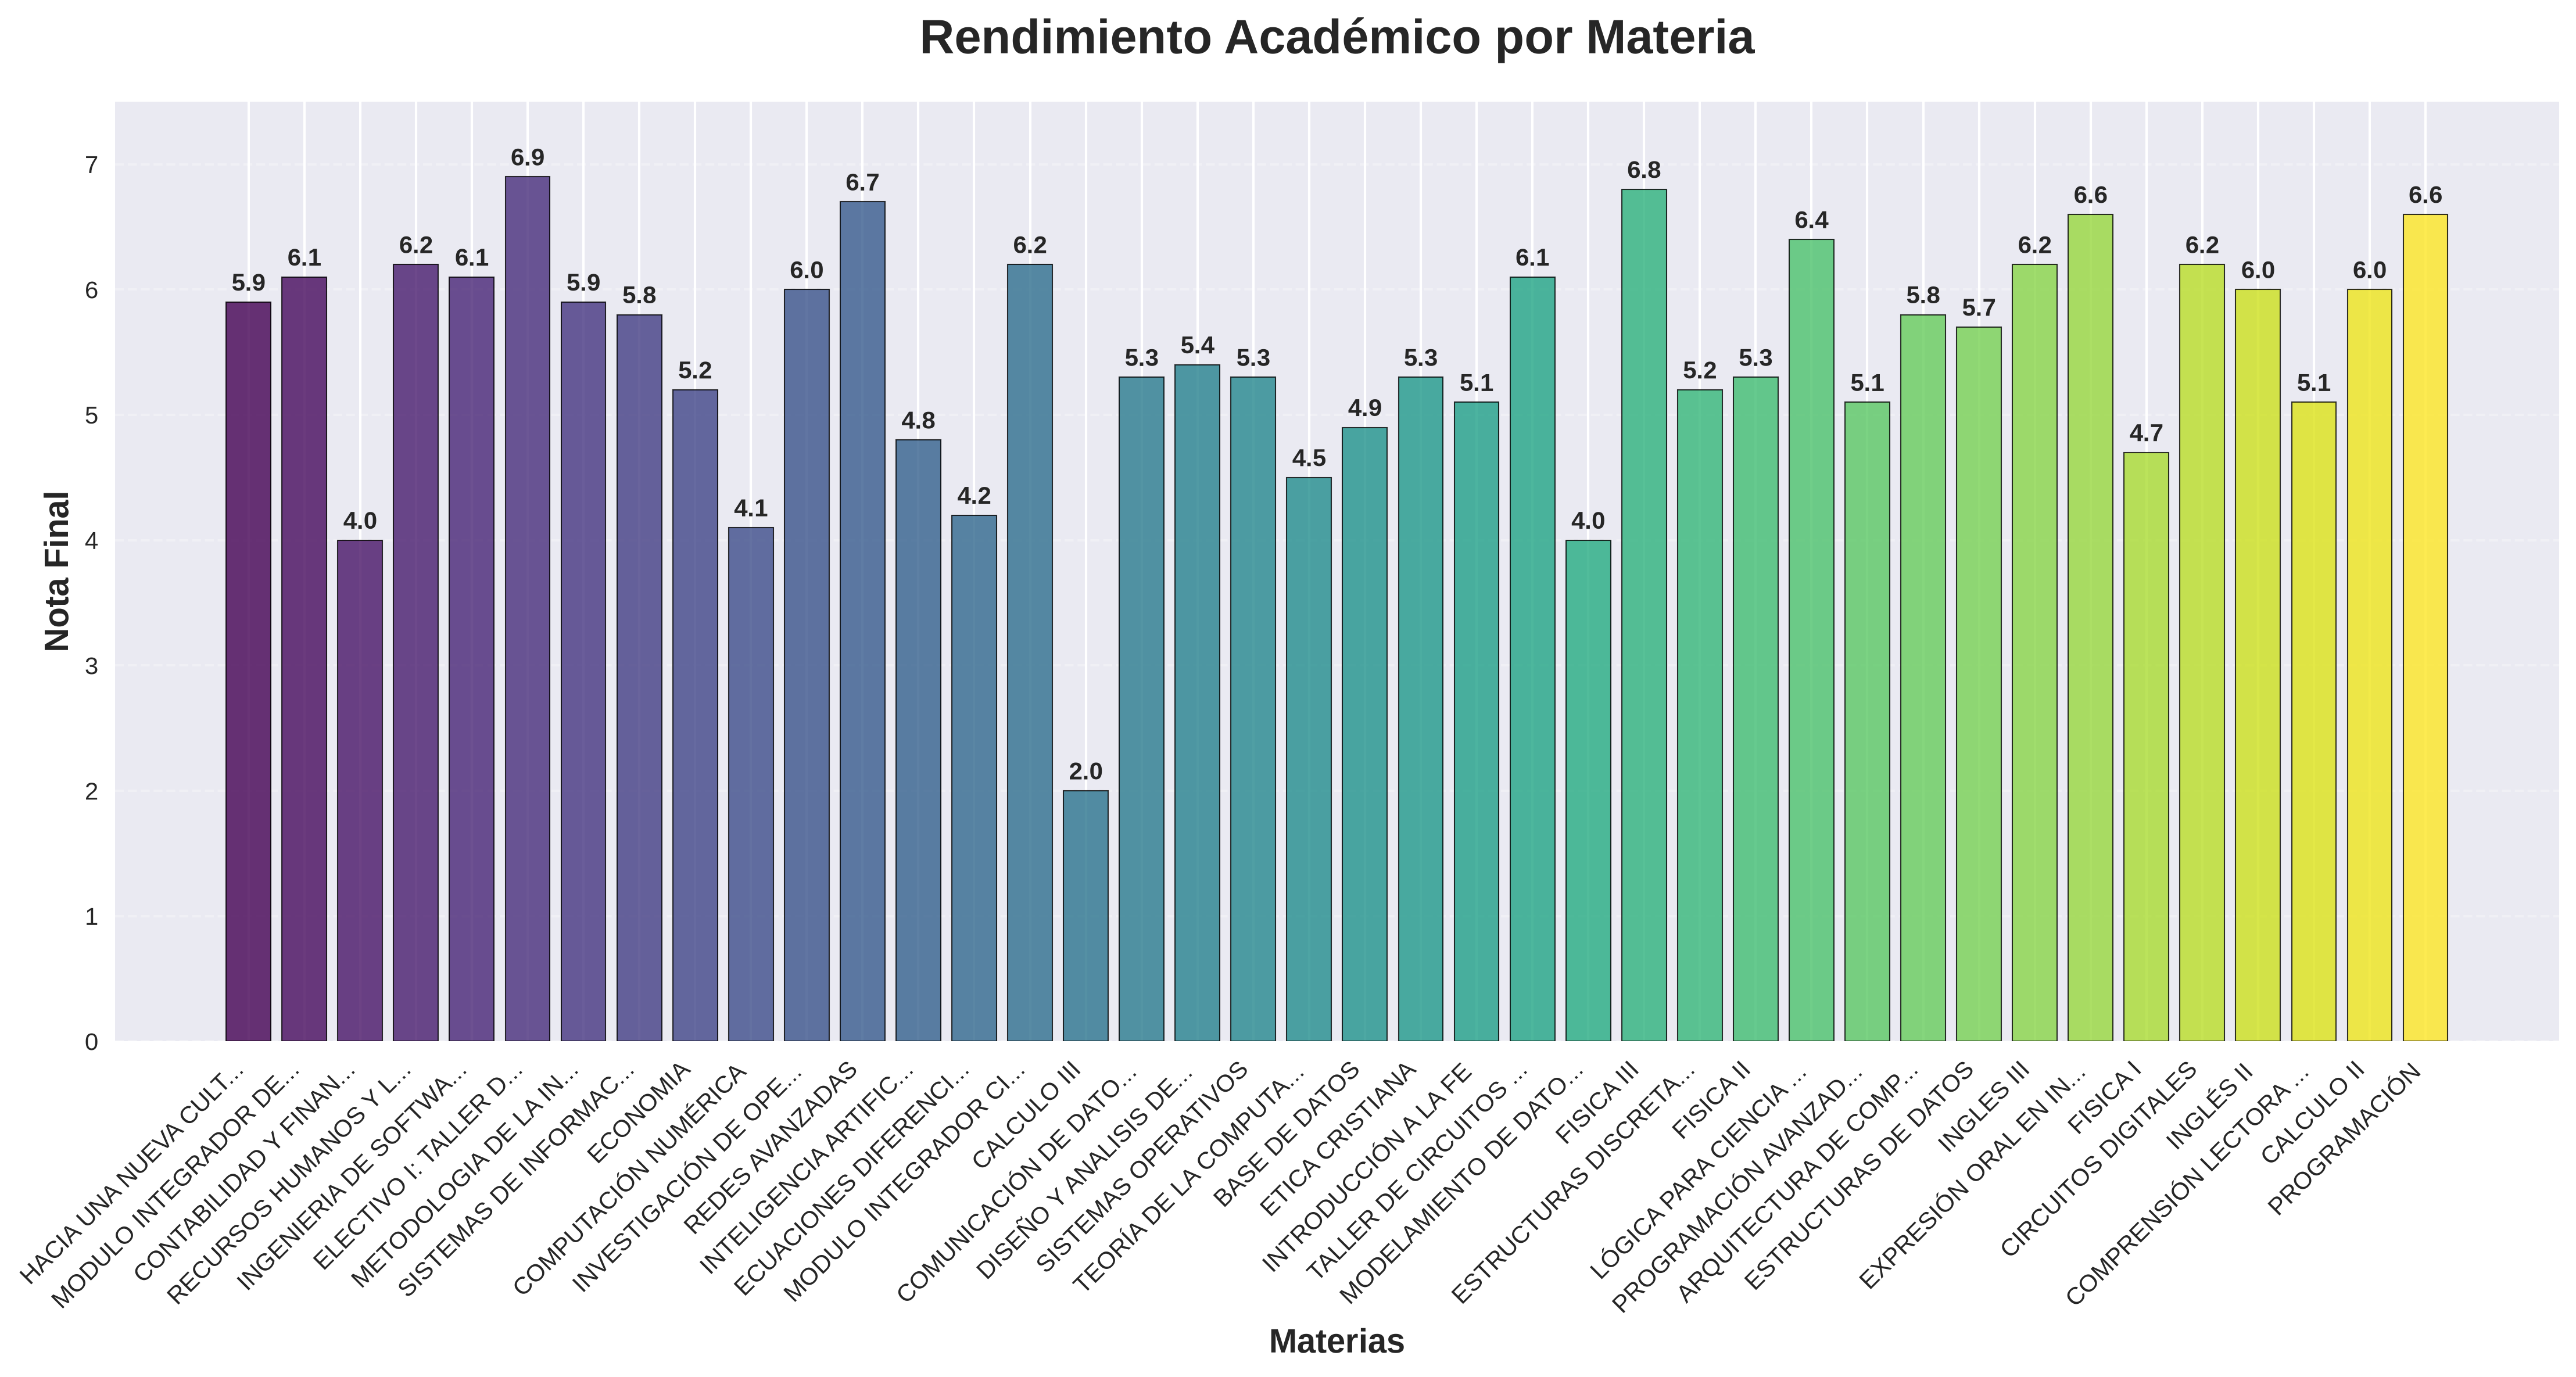
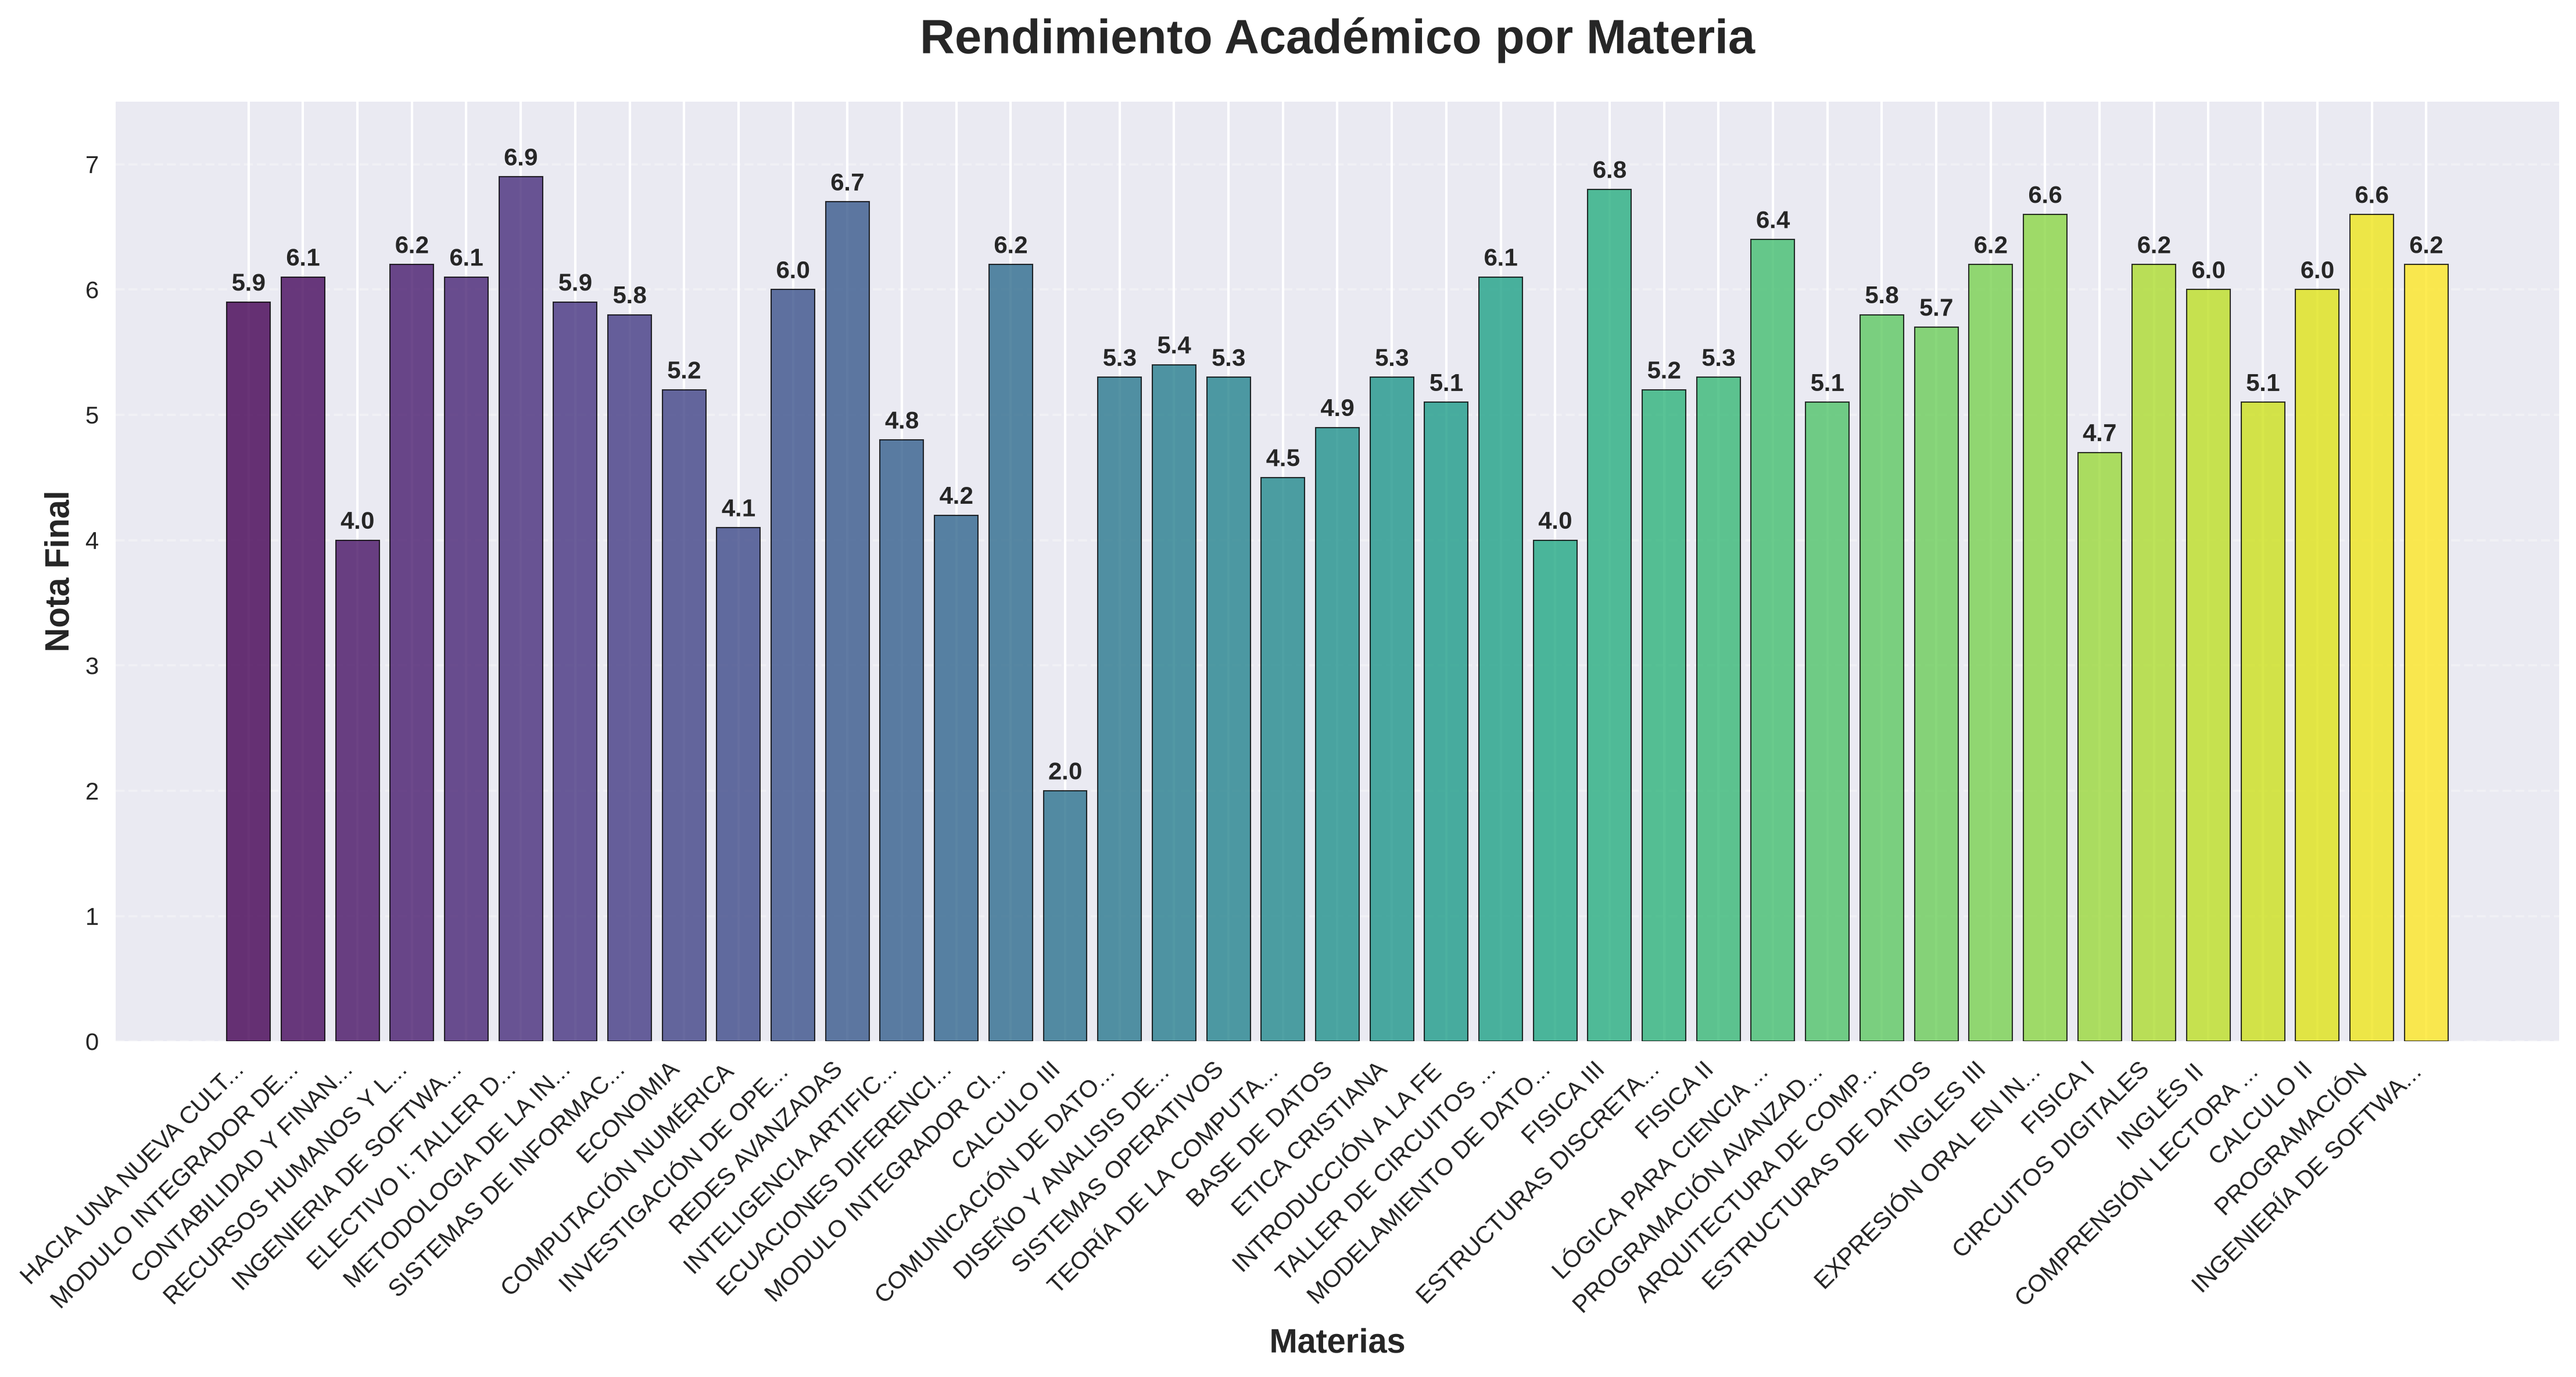
auto: actualizar notas y gráficos

Changed region(s): [[0.0311, 0.0937, 0.965, 0.9367]]

diff --git a/dashboard/ramos_con_detalles.js b/dashboard/ramos_con_detalles.js
@@ -1,2 +1,2 @@
 /* Archivo generado automáticamente por el scraper. No editar a mano. */
-window.ramosData = {"ramos_con_detalles": [{"nombre": "HACIA UNA NUEVA CULTURA EMPRESARIAL", "nota_final": 5.9, "id_curso": "01005356", "componentes": [{"nombre": "Parcial", "porcentaje": "30%", "nota": 6.0}, {"nombre": "Parcial", "porcentaje": "30%", "nota": 7.0}, {"nombre": "Parcial", "porcentaje": "40%", "nota": 5.0}], "semestre": "Semestre 2 (Pre) 2025"}, {"nombre": "MODULO INTEGRADOR DE LICENCIATURA (PRACT", "nota_final": 6.1, "id_curso": "01003110", "componentes": [{"nombre": "Parcial", "porcentaje": "30%", "nota": 5.8}, {"nombre": "Parcial", "porcentaje": "30%", "nota": 6.4}, {"nombre": "Parcial", "porcentaje": "40%", "nota": 6.2}], "semestre": "Semestre 2 (Pre) 2025"}, {"nombre": "CONTABILIDAD Y FINANZAS", "nota_final": 4.0, "id_curso": "01003111", "componentes": [{"nombre": "Parcial", "porcentaje": "20%", "nota": 4.0}, {"nombre": "Parcial", "porcentaje": "20%", "nota": 5.9}, {"nombre": "Parcial", "porcentaje": "30%", "nota": 2.5}, {"nombre": "Parcial", "porcentaje": "30%", "nota": 4.1}], "semestre": "Semestre 2 (Pre) 2025"}, {"nombre": "RECURSOS HUMANOS Y LEGISLACIÓN", "nota_final": 6.2, "id_curso": "01003120", "componentes": [{"nombre": "Parcial", "porcentaje": "20%", "nota": 5.4}, {"nombre": "Parcial", "porcentaje": "25%", "nota": 6.5}, {"nombre": "Parcial", "porcentaje": "25%", "nota": 6.0}, {"nombre": "Parcial", "porcentaje": "30%", "nota": 6.6}], "semestre": "Semestre 2 (Pre) 2025"}, {"nombre": "INGENIERIA DE SOFTWARE I", "nota_final": 6.1, "id_curso": "01003113", "componentes": [{"nombre": "Parcial", "porcentaje": "10%", "nota": 6.3}, {"nombre": "Parcial", "porcentaje": "10%", "nota": 6.2}, {"nombre": "Parcial", "porcentaje": "20%", "nota": 7.0}, {"nombre": "Parcial", "porcentaje": "30%", "nota": 5.3}, {"nombre": "Parcial", "porcentaje": "30%", "nota": 6.2}], "semestre": "Semestre 2 (Pre) 2025"}, {"nombre": "ELECTIVO I: TALLER DE UI Y UX", "nota_final": 6.9, "id_curso": "01011131", "componentes": [{"nombre": "Parcial", "porcentaje": "20%", "nota": 7.0}, {"nombre": "Parcial", "porcentaje": "40%", "nota": 6.9}, {"nombre": "Parcial", "porcentaje": "40%", "nota": 6.8}], "semestre": "Semestre 2 (Pre) 2025"}, {"nombre": "METODOLOGIA DE LA INVESTIGACIÓN", "nota_final": 5.9, "id_curso": "01003105", "componentes": [{"nombre": "Parcial", "porcentaje": "30%", "nota": 5.5}, {"nombre": "Parcial", "porcentaje": "30%", "nota": 6.7}, {"nombre": "Parcial", "porcentaje": "40%", "nota": 5.5}], "semestre": "Semestre 1 (Pre) 2025"}, {"nombre": "SISTEMAS DE INFORMACIÓN", "nota_final": 5.8, "id_curso": "01003108", "componentes": [{"nombre": "Parcial", "porcentaje": "30%", "nota": 6.3}, {"nombre": "Parcial", "porcentaje": "30%", "nota": 7.0}, {"nombre": "Parcial", "porcentaje": "40%", "nota": 4.4}], "semestre": "Semestre 1 (Pre) 2025"}, {"nombre": "ECONOMIA", "nota_final": 5.2, "id_curso": "01003106", "componentes": [{"nombre": "Parcial", "porcentaje": "25%", "nota": 6.6}, {"nombre": "Parcial", "porcentaje": "25%", "nota": 6.0}, {"nombre": "Parcial", "porcentaje": "25%", "nota": 7.0}, {"nombre": "Parcial", "porcentaje": "25%", "nota": 1.0}], "semestre": "Semestre 1 (Pre) 2025"}, {"nombre": "CALCULO I", "nota_final": null, "id_curso": "N/A", "componentes": [], "semestre": "Semestre 1 (Pre) 2021", "error": "Message: \nStacktrace:\n#0 0x55fedd4083da <unknown>\n#1 0x55fedcdea139 <unknown>\n#2 0x55fedce3e884 <unknown>\n#3 0x55fedce3ead1 <unknown>\n#4 0x55fedce89974 <unknown>\n#5 0x55fedce86b5c <unknown>\n#6 0x55fedce31e4f <unknown>\n#7 0x55fedce32c31 <unknown>\n#8 0x55fedd3ce9f7 <unknown>\n#9 0x55fedd3cd203 <unknown>\n#10 0x55fedd3b7f16 <unknown>\n#11 0x55fedd3cdd9a <unknown>\n#12 0x55fedd39feb0 <unknown>\n#13 0x55fedd3f4d58 <unknown>\n#14 0x55fedd3f4ef5 <unknown>\n#15 0x55fedd406f5e <unknown>\n#16 0x7fd13129caa4 <unknown>\n#17 0x7fd131329c6c <unknown>\n"}, {"nombre": "COMPUTACIÓN NUMÉRICA", "nota_final": 4.1, "id_curso": "01003100", "componentes": [{"nombre": "Parcial", "porcentaje": "15%", "nota": 6.5}, {"nombre": "Parcial", "porcentaje": "15%", "nota": 7.0}, {"nombre": "Parcial", "porcentaje": "20%", "nota": 6.8}, {"nombre": "Parcial", "porcentaje": "20%", "nota": 2.0}, {"nombre": "Parcial", "porcentaje": "30%", "nota": 1.0}], "semestre": "Semestre 2 (Pre) 2024"}, {"nombre": "INVESTIGACIÓN DE OPERACIONES", "nota_final": 6.0, "id_curso": "01003101", "componentes": [{"nombre": "Parcial", "porcentaje": "15%", "nota": 7.0}, {"nombre": "Parcial", "porcentaje": "15%", "nota": 5.3}, {"nombre": "Parcial", "porcentaje": "20%", "nota": 5.8}, {"nombre": "Parcial", "porcentaje": "20%", "nota": 6.9}, {"nombre": "Parcial", "porcentaje": "30%", "nota": 5.5}], "semestre": "Semestre 2 (Pre) 2024"}, {"nombre": "REDES AVANZADAS", "nota_final": 6.7, "id_curso": "01003114", "componentes": [{"nombre": "Parcial", "porcentaje": "45%", "nota": 6.7}, {"nombre": "Parcial", "porcentaje": "55%", "nota": 6.7}], "semestre": "Semestre 2 (Pre) 2024"}, {"nombre": "INTELIGENCIA ARTIFICIAL", "nota_final": 4.8, "id_curso": "01003112", "componentes": [{"nombre": "Parcial", "porcentaje": "10%", "nota": 5.9}, {"nombre": "Parcial", "porcentaje": "10%", "nota": 7.0}, {"nombre": "Parcial", "porcentaje": "20%", "nota": 5.3}, {"nombre": "Parcial", "porcentaje": "30%", "nota": 4.0}, {"nombre": "Parcial", "porcentaje": "30%", "nota": 4.0}], "semestre": "Semestre 2 (Pre) 2024"}, {"nombre": "ECUACIONES DIFERENCIALES", "nota_final": 4.2, "id_curso": "01003090", "componentes": [{"nombre": "Parcial", "porcentaje": "15%", "nota": 4.0}, {"nombre": "Parcial", "porcentaje": "15%", "nota": 5.0}, {"nombre": "Parcial", "porcentaje": "20%", "nota": 3.7}, {"nombre": "Parcial", "porcentaje": "20%", "nota": 4.3}, {"nombre": "Parcial", "porcentaje": "30%", "nota": 4.2}], "semestre": "Semestre 2 (Pre) 2024"}, {"nombre": "MODULO INTEGRADOR CIENCIAS BÁSICAS", "nota_final": 6.2, "id_curso": "01003094", "componentes": [{"nombre": "Parcial", "porcentaje": "40%", "nota": 6.1}, {"nombre": "Parcial", "porcentaje": "60%", "nota": 6.2}], "semestre": "Semestre 2 (Pre) 2024"}, {"nombre": "CALCULO III", "nota_final": 2.0, "id_curso": "01003085", "componentes": [{"nombre": "Parcial", "porcentaje": "20%", "nota": 2.2}, {"nombre": "Parcial", "porcentaje": "25%", "nota": 2.4}, {"nombre": "Parcial", "porcentaje": "25%", "nota": 2.2}, {"nombre": "Parcial", "porcentaje": "30%", "nota": 1.3}], "semestre": "Semestre 1 (Pre) 2023"}, {"nombre": "COMUNICACIÓN DE DATOS Y REDES", "nota_final": 5.3, "id_curso": "01003109", "componentes": [{"nombre": "Parcial", "porcentaje": "15%", "nota": 5.3}, {"nombre": "Parcial", "porcentaje": "15%", "nota": 5.3}, {"nombre": "Parcial", "porcentaje": "20%", "nota": 5.3}, {"nombre": "Parcial", "porcentaje": "20%", "nota": 5.3}, {"nombre": "Parcial", "porcentaje": "30%", "nota": 5.3}], "semestre": "Semestre 1 (Pre) 2024"}, {"nombre": "DISEÑO Y ANALISIS DE ALGORITMOS", "nota_final": 5.4, "id_curso": "01003107", "componentes": [{"nombre": "Parcial", "porcentaje": "30%", "nota": 6.0}, {"nombre": "Parcial", "porcentaje": "70%", "nota": 5.2}], "semestre": "Semestre 1 (Pre) 2024"}, {"nombre": "SISTEMAS OPERATIVOS", "nota_final": 5.3, "id_curso": "01003104", "componentes": [{"nombre": "Parcial", "porcentaje": "25%", "nota": 5.5}, {"nombre": "Parcial", "porcentaje": "35%", "nota": 6.1}, {"nombre": "Parcial", "porcentaje": "40%", "nota": 4.4}], "semestre": "Semestre 2 (Pre) 2023"}, {"nombre": "TEORÍA DE LA COMPUTACION", "nota_final": 4.5, "id_curso": "01003102", "componentes": [{"nombre": "Parcial", "porcentaje": "25%", "nota": 5.9}, {"nombre": "Parcial", "porcentaje": "25%", "nota": 6.7}, {"nombre": "Parcial", "porcentaje": "25%", "nota": 4.2}, {"nombre": "Parcial", "porcentaje": "25%", "nota": 1.0}], "semestre": "Semestre 2 (Pre) 2023"}, {"nombre": "BASE DE DATOS", "nota_final": 4.9, "id_curso": "01003103", "componentes": [{"nombre": "Parcial", "porcentaje": "30%", "nota": 3.6}, {"nombre": "Parcial", "porcentaje": "30%", "nota": 5.7}, {"nombre": "Parcial", "porcentaje": "40%", "nota": 5.3}], "semestre": "Semestre 2 (Pre) 2023"}, {"nombre": "ETICA CRISTIANA", "nota_final": 5.3, "id_curso": "01005880", "componentes": [{"nombre": "Parcial", "porcentaje": "30%", "nota": 5.0}, {"nombre": "Parcial", "porcentaje": "30%", "nota": 6.5}, {"nombre": "Parcial", "porcentaje": "40%", "nota": 4.5}], "semestre": "Semestre 2 (Pre) 2023"}, {"nombre": "INTRODUCCIÓN A LA FE", "nota_final": 5.1, "id_curso": "01005831", "componentes": [{"nombre": "Parcial", "porcentaje": "20%", "nota": 6.8}, {"nombre": "Parcial", "porcentaje": "25%", "nota": 6.6}, {"nombre": "Parcial", "porcentaje": "25%", "nota": 1.0}, {"nombre": "Parcial", "porcentaje": "30%", "nota": 6.0}], "semestre": "Semestre 1 (Pre) 2023"}, {"nombre": "TALLER DE CIRCUITOS DIGITALES", "nota_final": 6.1, "id_curso": "01003099", "componentes": [{"nombre": "Parcial", "porcentaje": "20%", "nota": 6.0}, {"nombre": "Parcial", "porcentaje": "20%", "nota": 6.6}, {"nombre": "Parcial", "porcentaje": "20%", "nota": 6.0}, {"nombre": "Parcial", "porcentaje": "40%", "nota": 6.0}], "semestre": "Semestre 1 (Pre) 2023"}, {"nombre": "MODELAMIENTO DE DATOS", "nota_final": 4.0, "id_curso": "01003098", "componentes": [{"nombre": "Parcial", "porcentaje": "20%", "nota": 3.8}, {"nombre": "Parcial", "porcentaje": "40%", "nota": 5.5}, {"nombre": "Parcial", "porcentaje": "40%", "nota": 2.7}], "semestre": "Semestre 1 (Pre) 2023"}, {"nombre": "FISICA III", "nota_final": 6.8, "id_curso": "01003095", "componentes": [{"nombre": "Parcial", "porcentaje": "20%", "nota": 6.5}, {"nombre": "Parcial", "porcentaje": "20%", "nota": 7.0}, {"nombre": "Parcial", "porcentaje": "30%", "nota": 6.8}, {"nombre": "Parcial", "porcentaje": "30%", "nota": 6.8}], "semestre": "Semestre 1 (Pre) 2023"}, {"nombre": "ESTRUCTURAS DISCRETAS", "nota_final": 5.2, "id_curso": "01003097", "componentes": [{"nombre": "Parcial", "porcentaje": "15%", "nota": 4.8}, {"nombre": "Parcial", "porcentaje": "15%", "nota": 4.8}, {"nombre": "Parcial", "porcentaje": "20%", "nota": 4.8}, {"nombre": "Parcial", "porcentaje": "20%", "nota": 5.8}, {"nombre": "Parcial", "porcentaje": "30%", "nota": 5.4}], "semestre": "Semestre 1 (Pre) 2023"}, {"nombre": "FISICA II", "nota_final": 5.3, "id_curso": "01003089", "componentes": [{"nombre": "Parcial", "porcentaje": "30%", "nota": 5.3}, {"nombre": "Parcial", "porcentaje": "35%", "nota": 4.1}, {"nombre": "Parcial", "porcentaje": "35%", "nota": 6.4}], "semestre": "Semestre 2 (Pre) 2022"}, {"nombre": "LÓGICA PARA CIENCIA DE LA COMPUTACIÓN", "nota_final": 6.4, "id_curso": "01003092", "componentes": [{"nombre": "Parcial", "porcentaje": "30%", "nota": 5.6}, {"nombre": "Parcial", "porcentaje": "35%", "nota": 7.0}, {"nombre": "Parcial", "porcentaje": "35%", "nota": 6.6}], "semestre": "Semestre 2 (Pre) 2022"}, {"nombre": "PROGRAMACIÓN AVANZADA", "nota_final": 5.1, "id_curso": "01003091", "componentes": [{"nombre": "Parcial", "porcentaje": "20%", "nota": 4.0}, {"nombre": "Parcial", "porcentaje": "20%", "nota": 7.0}, {"nombre": "Parcial", "porcentaje": "30%", "nota": 4.6}, {"nombre": "Parcial", "porcentaje": "30%", "nota": 5.1}], "semestre": "Semestre 2 (Pre) 2022"}, {"nombre": "ARQUITECTURA DE COMPUTADORES", "nota_final": 5.8, "id_curso": "01003093", "componentes": [{"nombre": "Parcial", "porcentaje": "15%", "nota": 2.9}, {"nombre": "Parcial", "porcentaje": "20%", "nota": 7.0}, {"nombre": "Parcial", "porcentaje": "20%", "nota": 7.0}, {"nombre": "Parcial", "porcentaje": "20%", "nota": 5.9}, {"nombre": "Parcial", "porcentaje": "25%", "nota": 5.7}], "semestre": "Semestre 2 (Pre) 2022"}, {"nombre": "ALGEBRA II", "nota_final": null, "id_curso": "01003080", "componentes": [{"nombre": "Parcial", "porcentaje": "15%", "nota": null}, {"nombre": "Parcial", "porcentaje": "15%", "nota": null}, {"nombre": "Parcial", "porcentaje": "20%", "nota": null}, {"nombre": "Parcial", "porcentaje": "20%", "nota": null}, {"nombre": "Parcial", "porcentaje": "30%", "nota": null}], "semestre": "Semestre 2 (Pre) 2021"}, {"nombre": "ESTRUCTURAS DE DATOS", "nota_final": 5.7, "id_curso": "01003086", "componentes": [{"nombre": "Parcial", "porcentaje": "20%", "nota": 3.8}, {"nombre": "Parcial", "porcentaje": "40%", "nota": 6.5}, {"nombre": "Parcial", "porcentaje": "40%", "nota": 5.8}], "semestre": "Semestre 1 (Pre) 2022"}, {"nombre": "INGLES III", "nota_final": 6.2, "id_curso": "01005809", "componentes": [{"nombre": "Parcial", "porcentaje": "50%", "nota": 6.7}, {"nombre": "Parcial", "porcentaje": "50%", "nota": 5.6}], "semestre": "Semestre 1 (Pre) 2022"}, {"nombre": "EXPRESIÓN ORAL EN INGENIERIA", "nota_final": 6.6, "id_curso": "01003087", "componentes": [{"nombre": "Parcial", "porcentaje": "25%", "nota": 7.0}, {"nombre": "Parcial", "porcentaje": "25%", "nota": 7.0}, {"nombre": "Parcial", "porcentaje": "25%", "nota": 5.5}, {"nombre": "Parcial", "porcentaje": "25%", "nota": 6.8}], "semestre": "Semestre 1 (Pre) 2022"}, {"nombre": "FISICA I", "nota_final": 4.7, "id_curso": "01003084", "componentes": [{"nombre": "Parcial", "porcentaje": "15%", "nota": 6.2}, {"nombre": "Parcial", "porcentaje": "15%", "nota": 6.3}, {"nombre": "Parcial", "porcentaje": "20%", "nota": 1.3}, {"nombre": "Parcial", "porcentaje": "20%", "nota": 6.0}, {"nombre": "Parcial", "porcentaje": "30%", "nota": 4.6}], "semestre": "Semestre 1 (Pre) 2022"}, {"nombre": "CIRCUITOS DIGITALES", "nota_final": 6.2, "id_curso": "01003088", "componentes": [{"nombre": "Parcial", "porcentaje": "25%", "nota": 5.3}, {"nombre": "Parcial", "porcentaje": "25%", "nota": 7.0}, {"nombre": "Parcial", "porcentaje": "25%", "nota": 6.3}, {"nombre": "Parcial", "porcentaje": "25%", "nota": 6.2}], "semestre": "Semestre 1 (Pre) 2022"}, {"nombre": "INGLÉS II", "nota_final": 6.0, "id_curso": "01005759", "componentes": [{"nombre": "Parcial", "porcentaje": "50%", "nota": 6.0}, {"nombre": "Parcial", "porcentaje": "50%", "nota": 6.0}], "semestre": "Semestre 2 (Pre) 2021"}, {"nombre": "COMPRENSIÓN LECTORA Y PROD. DE TEXTOS", "nota_final": 5.1, "id_curso": "01003083", "componentes": [{"nombre": "Parcial", "porcentaje": "25%", "nota": 5.3}, {"nombre": "Parcial", "porcentaje": "25%", "nota": 5.5}, {"nombre": "Parcial", "porcentaje": "25%", "nota": 3.0}, {"nombre": "Parcial", "porcentaje": "25%", "nota": 6.5}], "semestre": "Semestre 2 (Pre) 2021"}, {"nombre": "CALCULO II", "nota_final": 6.0, "id_curso": "01003081", "componentes": [{"nombre": "Parcial", "porcentaje": "20%", "nota": 6.6}, {"nombre": "Parcial", "porcentaje": "20%", "nota": 5.5}, {"nombre": "Parcial", "porcentaje": "30%", "nota": 5.9}, {"nombre": "Parcial", "porcentaje": "30%", "nota": 6.0}], "semestre": "Semestre 2 (Pre) 2021"}, {"nombre": "PROGRAMACIÓN", "nota_final": 6.6, "id_curso": "01003082", "componentes": [{"nombre": "Parcial", "porcentaje": "20%", "nota": 7.0}, {"nombre": "Parcial", "porcentaje": "20%", "nota": 7.0}, {"nombre": "Parcial", "porcentaje": "20%", "nota": 5.8}, {"nombre": "Parcial", "porcentaje": "40%", "nota": 6.5}], "semestre": "Semestre 2 (Pre) 2021"}, {"nombre": "SISTEMAS DISTRIBUIDOS", "nota_final": null, "id_curso": "01003119", "componentes": [{"nombre": "Parcial", "porcentaje": "30%", "nota": null}, {"nombre": "Parcial", "porcentaje": "30%", "nota": null}, {"nombre": "Parcial", "porcentaje": "40%", "nota": null}], "semestre": "Semestre 1 (Pre) 2026"}, {"nombre": "FORM. Y EVAL. DE PROYECTOS INFORMÁTICOS", "nota_final": null, "id_curso": "01003115", "componentes": [{"nombre": "Parcial", "porcentaje": "25%", "nota": 3.6}, {"nombre": "Parcial", "porcentaje": "35%", "nota": 6.7}, {"nombre": "Parcial", "porcentaje": "40%", "nota": null}], "semestre": "Semestre 1 (Pre) 2026"}, {"nombre": "INGENIERÍA DE SOFTWARE II", "nota_final": null, "id_curso": "01003118", "componentes": [{"nombre": "Parcial", "porcentaje": "20%", "nota": null}, {"nombre": "Parcial", "porcentaje": "20%", "nota": null}, {"nombre": "Parcial", "porcentaje": "30%", "nota": null}, {"nombre": "Parcial", "porcentaje": "30%", "nota": null}], "semestre": "Semestre 1 (Pre) 2026"}, {"nombre": "CALIDAD Y PRODUCTIVIDAD DE SOFTWARE", "nota_final": null, "id_curso": "01003117", "componentes": [{"nombre": "Parcial", "porcentaje": "20%", "nota": 5.0}, {"nombre": "Parcial", "porcentaje": "25%", "nota": null}, {"nombre": "Parcial", "porcentaje": "25%", "nota": null}, {"nombre": "Parcial", "porcentaje": "30%", "nota": null}], "semestre": "Semestre 1 (Pre) 2026"}, {"nombre": "GESTIÓN INFORMÁTICA I", "nota_final": null, "id_curso": "01003116", "componentes": [{"nombre": "Parcial", "porcentaje": "20%", "nota": 6.8}, {"nombre": "Parcial", "porcentaje": "20%", "nota": 5.2}, {"nombre": "Parcial", "porcentaje": "30%", "nota": null}, {"nombre": "Parcial", "porcentaje": "30%", "nota": null}], "semestre": "Semestre 1 (Pre) 2026"}, {"nombre": "IMPLEMENTACION DE LA R.S.E. Y NUEVOS DES", "nota_final": null, "id_curso": "01005358", "componentes": [{"nombre": "Parcial", "porcentaje": "30%", "nota": 7.0}, {"nombre": "Parcial", "porcentaje": "30%", "nota": 5.2}, {"nombre": "Parcial", "porcentaje": "40%", "nota": null}], "semestre": "Semestre 1 (Pre) 2026"}]};
+window.ramosData = {"ramos_con_detalles": [{"nombre": "HACIA UNA NUEVA CULTURA EMPRESARIAL", "nota_final": 5.9, "id_curso": "01005356", "componentes": [{"nombre": "Parcial", "porcentaje": "30%", "nota": 6.0}, {"nombre": "Parcial", "porcentaje": "30%", "nota": 7.0}, {"nombre": "Parcial", "porcentaje": "40%", "nota": 5.0}], "semestre": "Semestre 2 (Pre) 2025"}, {"nombre": "MODULO INTEGRADOR DE LICENCIATURA (PRACT", "nota_final": 6.1, "id_curso": "01003110", "componentes": [{"nombre": "Parcial", "porcentaje": "30%", "nota": 5.8}, {"nombre": "Parcial", "porcentaje": "30%", "nota": 6.4}, {"nombre": "Parcial", "porcentaje": "40%", "nota": 6.2}], "semestre": "Semestre 2 (Pre) 2025"}, {"nombre": "CONTABILIDAD Y FINANZAS", "nota_final": 4.0, "id_curso": "01003111", "componentes": [{"nombre": "Parcial", "porcentaje": "20%", "nota": 4.0}, {"nombre": "Parcial", "porcentaje": "20%", "nota": 5.9}, {"nombre": "Parcial", "porcentaje": "30%", "nota": 2.5}, {"nombre": "Parcial", "porcentaje": "30%", "nota": 4.1}], "semestre": "Semestre 2 (Pre) 2025"}, {"nombre": "RECURSOS HUMANOS Y LEGISLACIÓN", "nota_final": 6.2, "id_curso": "01003120", "componentes": [{"nombre": "Parcial", "porcentaje": "20%", "nota": 5.4}, {"nombre": "Parcial", "porcentaje": "25%", "nota": 6.5}, {"nombre": "Parcial", "porcentaje": "25%", "nota": 6.0}, {"nombre": "Parcial", "porcentaje": "30%", "nota": 6.6}], "semestre": "Semestre 2 (Pre) 2025"}, {"nombre": "INGENIERIA DE SOFTWARE I", "nota_final": 6.1, "id_curso": "01003113", "componentes": [{"nombre": "Parcial", "porcentaje": "10%", "nota": 6.3}, {"nombre": "Parcial", "porcentaje": "10%", "nota": 6.2}, {"nombre": "Parcial", "porcentaje": "20%", "nota": 7.0}, {"nombre": "Parcial", "porcentaje": "30%", "nota": 5.3}, {"nombre": "Parcial", "porcentaje": "30%", "nota": 6.2}], "semestre": "Semestre 2 (Pre) 2025"}, {"nombre": "ELECTIVO I: TALLER DE UI Y UX", "nota_final": 6.9, "id_curso": "01011131", "componentes": [{"nombre": "Parcial", "porcentaje": "20%", "nota": 7.0}, {"nombre": "Parcial", "porcentaje": "40%", "nota": 6.9}, {"nombre": "Parcial", "porcentaje": "40%", "nota": 6.8}], "semestre": "Semestre 2 (Pre) 2025"}, {"nombre": "METODOLOGIA DE LA INVESTIGACIÓN", "nota_final": 5.9, "id_curso": "01003105", "componentes": [{"nombre": "Parcial", "porcentaje": "30%", "nota": 5.5}, {"nombre": "Parcial", "porcentaje": "30%", "nota": 6.7}, {"nombre": "Parcial", "porcentaje": "40%", "nota": 5.5}], "semestre": "Semestre 1 (Pre) 2025"}, {"nombre": "SISTEMAS DE INFORMACIÓN", "nota_final": 5.8, "id_curso": "01003108", "componentes": [{"nombre": "Parcial", "porcentaje": "30%", "nota": 6.3}, {"nombre": "Parcial", "porcentaje": "30%", "nota": 7.0}, {"nombre": "Parcial", "porcentaje": "40%", "nota": 4.4}], "semestre": "Semestre 1 (Pre) 2025"}, {"nombre": "ECONOMIA", "nota_final": 5.2, "id_curso": "01003106", "componentes": [{"nombre": "Parcial", "porcentaje": "25%", "nota": 6.6}, {"nombre": "Parcial", "porcentaje": "25%", "nota": 6.0}, {"nombre": "Parcial", "porcentaje": "25%", "nota": 7.0}, {"nombre": "Parcial", "porcentaje": "25%", "nota": 1.0}], "semestre": "Semestre 1 (Pre) 2025"}, {"nombre": "CALCULO I", "nota_final": null, "id_curso": "N/A", "componentes": [], "semestre": "Semestre 1 (Pre) 2021", "error": "Message: \nStacktrace:\n#0 0x55fedd4083da <unknown>\n#1 0x55fedcdea139 <unknown>\n#2 0x55fedce3e884 <unknown>\n#3 0x55fedce3ead1 <unknown>\n#4 0x55fedce89974 <unknown>\n#5 0x55fedce86b5c <unknown>\n#6 0x55fedce31e4f <unknown>\n#7 0x55fedce32c31 <unknown>\n#8 0x55fedd3ce9f7 <unknown>\n#9 0x55fedd3cd203 <unknown>\n#10 0x55fedd3b7f16 <unknown>\n#11 0x55fedd3cdd9a <unknown>\n#12 0x55fedd39feb0 <unknown>\n#13 0x55fedd3f4d58 <unknown>\n#14 0x55fedd3f4ef5 <unknown>\n#15 0x55fedd406f5e <unknown>\n#16 0x7fd13129caa4 <unknown>\n#17 0x7fd131329c6c <unknown>\n"}, {"nombre": "COMPUTACIÓN NUMÉRICA", "nota_final": 4.1, "id_curso": "01003100", "componentes": [{"nombre": "Parcial", "porcentaje": "15%", "nota": 6.5}, {"nombre": "Parcial", "porcentaje": "15%", "nota": 7.0}, {"nombre": "Parcial", "porcentaje": "20%", "nota": 6.8}, {"nombre": "Parcial", "porcentaje": "20%", "nota": 2.0}, {"nombre": "Parcial", "porcentaje": "30%", "nota": 1.0}], "semestre": "Semestre 2 (Pre) 2024"}, {"nombre": "INVESTIGACIÓN DE OPERACIONES", "nota_final": 6.0, "id_curso": "01003101", "componentes": [{"nombre": "Parcial", "porcentaje": "15%", "nota": 7.0}, {"nombre": "Parcial", "porcentaje": "15%", "nota": 5.3}, {"nombre": "Parcial", "porcentaje": "20%", "nota": 5.8}, {"nombre": "Parcial", "porcentaje": "20%", "nota": 6.9}, {"nombre": "Parcial", "porcentaje": "30%", "nota": 5.5}], "semestre": "Semestre 2 (Pre) 2024"}, {"nombre": "REDES AVANZADAS", "nota_final": 6.7, "id_curso": "01003114", "componentes": [{"nombre": "Parcial", "porcentaje": "45%", "nota": 6.7}, {"nombre": "Parcial", "porcentaje": "55%", "nota": 6.7}], "semestre": "Semestre 2 (Pre) 2024"}, {"nombre": "INTELIGENCIA ARTIFICIAL", "nota_final": 4.8, "id_curso": "01003112", "componentes": [{"nombre": "Parcial", "porcentaje": "10%", "nota": 5.9}, {"nombre": "Parcial", "porcentaje": "10%", "nota": 7.0}, {"nombre": "Parcial", "porcentaje": "20%", "nota": 5.3}, {"nombre": "Parcial", "porcentaje": "30%", "nota": 4.0}, {"nombre": "Parcial", "porcentaje": "30%", "nota": 4.0}], "semestre": "Semestre 2 (Pre) 2024"}, {"nombre": "ECUACIONES DIFERENCIALES", "nota_final": 4.2, "id_curso": "01003090", "componentes": [{"nombre": "Parcial", "porcentaje": "15%", "nota": 4.0}, {"nombre": "Parcial", "porcentaje": "15%", "nota": 5.0}, {"nombre": "Parcial", "porcentaje": "20%", "nota": 3.7}, {"nombre": "Parcial", "porcentaje": "20%", "nota": 4.3}, {"nombre": "Parcial", "porcentaje": "30%", "nota": 4.2}], "semestre": "Semestre 2 (Pre) 2024"}, {"nombre": "MODULO INTEGRADOR CIENCIAS BÁSICAS", "nota_final": 6.2, "id_curso": "01003094", "componentes": [{"nombre": "Parcial", "porcentaje": "40%", "nota": 6.1}, {"nombre": "Parcial", "porcentaje": "60%", "nota": 6.2}], "semestre": "Semestre 2 (Pre) 2024"}, {"nombre": "CALCULO III", "nota_final": 2.0, "id_curso": "01003085", "componentes": [{"nombre": "Parcial", "porcentaje": "20%", "nota": 2.2}, {"nombre": "Parcial", "porcentaje": "25%", "nota": 2.4}, {"nombre": "Parcial", "porcentaje": "25%", "nota": 2.2}, {"nombre": "Parcial", "porcentaje": "30%", "nota": 1.3}], "semestre": "Semestre 1 (Pre) 2023"}, {"nombre": "COMUNICACIÓN DE DATOS Y REDES", "nota_final": 5.3, "id_curso": "01003109", "componentes": [{"nombre": "Parcial", "porcentaje": "15%", "nota": 5.3}, {"nombre": "Parcial", "porcentaje": "15%", "nota": 5.3}, {"nombre": "Parcial", "porcentaje": "20%", "nota": 5.3}, {"nombre": "Parcial", "porcentaje": "20%", "nota": 5.3}, {"nombre": "Parcial", "porcentaje": "30%", "nota": 5.3}], "semestre": "Semestre 1 (Pre) 2024"}, {"nombre": "DISEÑO Y ANALISIS DE ALGORITMOS", "nota_final": 5.4, "id_curso": "01003107", "componentes": [{"nombre": "Parcial", "porcentaje": "30%", "nota": 6.0}, {"nombre": "Parcial", "porcentaje": "70%", "nota": 5.2}], "semestre": "Semestre 1 (Pre) 2024"}, {"nombre": "SISTEMAS OPERATIVOS", "nota_final": 5.3, "id_curso": "01003104", "componentes": [{"nombre": "Parcial", "porcentaje": "25%", "nota": 5.5}, {"nombre": "Parcial", "porcentaje": "35%", "nota": 6.1}, {"nombre": "Parcial", "porcentaje": "40%", "nota": 4.4}], "semestre": "Semestre 2 (Pre) 2023"}, {"nombre": "TEORÍA DE LA COMPUTACION", "nota_final": 4.5, "id_curso": "01003102", "componentes": [{"nombre": "Parcial", "porcentaje": "25%", "nota": 5.9}, {"nombre": "Parcial", "porcentaje": "25%", "nota": 6.7}, {"nombre": "Parcial", "porcentaje": "25%", "nota": 4.2}, {"nombre": "Parcial", "porcentaje": "25%", "nota": 1.0}], "semestre": "Semestre 2 (Pre) 2023"}, {"nombre": "BASE DE DATOS", "nota_final": 4.9, "id_curso": "01003103", "componentes": [{"nombre": "Parcial", "porcentaje": "30%", "nota": 3.6}, {"nombre": "Parcial", "porcentaje": "30%", "nota": 5.7}, {"nombre": "Parcial", "porcentaje": "40%", "nota": 5.3}], "semestre": "Semestre 2 (Pre) 2023"}, {"nombre": "ETICA CRISTIANA", "nota_final": 5.3, "id_curso": "01005880", "componentes": [{"nombre": "Parcial", "porcentaje": "30%", "nota": 5.0}, {"nombre": "Parcial", "porcentaje": "30%", "nota": 6.5}, {"nombre": "Parcial", "porcentaje": "40%", "nota": 4.5}], "semestre": "Semestre 2 (Pre) 2023"}, {"nombre": "INTRODUCCIÓN A LA FE", "nota_final": 5.1, "id_curso": "01005831", "componentes": [{"nombre": "Parcial", "porcentaje": "20%", "nota": 6.8}, {"nombre": "Parcial", "porcentaje": "25%", "nota": 6.6}, {"nombre": "Parcial", "porcentaje": "25%", "nota": 1.0}, {"nombre": "Parcial", "porcentaje": "30%", "nota": 6.0}], "semestre": "Semestre 1 (Pre) 2023"}, {"nombre": "TALLER DE CIRCUITOS DIGITALES", "nota_final": 6.1, "id_curso": "01003099", "componentes": [{"nombre": "Parcial", "porcentaje": "20%", "nota": 6.0}, {"nombre": "Parcial", "porcentaje": "20%", "nota": 6.6}, {"nombre": "Parcial", "porcentaje": "20%", "nota": 6.0}, {"nombre": "Parcial", "porcentaje": "40%", "nota": 6.0}], "semestre": "Semestre 1 (Pre) 2023"}, {"nombre": "MODELAMIENTO DE DATOS", "nota_final": 4.0, "id_curso": "01003098", "componentes": [{"nombre": "Parcial", "porcentaje": "20%", "nota": 3.8}, {"nombre": "Parcial", "porcentaje": "40%", "nota": 5.5}, {"nombre": "Parcial", "porcentaje": "40%", "nota": 2.7}], "semestre": "Semestre 1 (Pre) 2023"}, {"nombre": "FISICA III", "nota_final": 6.8, "id_curso": "01003095", "componentes": [{"nombre": "Parcial", "porcentaje": "20%", "nota": 6.5}, {"nombre": "Parcial", "porcentaje": "20%", "nota": 7.0}, {"nombre": "Parcial", "porcentaje": "30%", "nota": 6.8}, {"nombre": "Parcial", "porcentaje": "30%", "nota": 6.8}], "semestre": "Semestre 1 (Pre) 2023"}, {"nombre": "ESTRUCTURAS DISCRETAS", "nota_final": 5.2, "id_curso": "01003097", "componentes": [{"nombre": "Parcial", "porcentaje": "15%", "nota": 4.8}, {"nombre": "Parcial", "porcentaje": "15%", "nota": 4.8}, {"nombre": "Parcial", "porcentaje": "20%", "nota": 4.8}, {"nombre": "Parcial", "porcentaje": "20%", "nota": 5.8}, {"nombre": "Parcial", "porcentaje": "30%", "nota": 5.4}], "semestre": "Semestre 1 (Pre) 2023"}, {"nombre": "FISICA II", "nota_final": 5.3, "id_curso": "01003089", "componentes": [{"nombre": "Parcial", "porcentaje": "30%", "nota": 5.3}, {"nombre": "Parcial", "porcentaje": "35%", "nota": 4.1}, {"nombre": "Parcial", "porcentaje": "35%", "nota": 6.4}], "semestre": "Semestre 2 (Pre) 2022"}, {"nombre": "LÓGICA PARA CIENCIA DE LA COMPUTACIÓN", "nota_final": 6.4, "id_curso": "01003092", "componentes": [{"nombre": "Parcial", "porcentaje": "30%", "nota": 5.6}, {"nombre": "Parcial", "porcentaje": "35%", "nota": 7.0}, {"nombre": "Parcial", "porcentaje": "35%", "nota": 6.6}], "semestre": "Semestre 2 (Pre) 2022"}, {"nombre": "PROGRAMACIÓN AVANZADA", "nota_final": 5.1, "id_curso": "01003091", "componentes": [{"nombre": "Parcial", "porcentaje": "20%", "nota": 4.0}, {"nombre": "Parcial", "porcentaje": "20%", "nota": 7.0}, {"nombre": "Parcial", "porcentaje": "30%", "nota": 4.6}, {"nombre": "Parcial", "porcentaje": "30%", "nota": 5.1}], "semestre": "Semestre 2 (Pre) 2022"}, {"nombre": "ARQUITECTURA DE COMPUTADORES", "nota_final": 5.8, "id_curso": "01003093", "componentes": [{"nombre": "Parcial", "porcentaje": "15%", "nota": 2.9}, {"nombre": "Parcial", "porcentaje": "20%", "nota": 7.0}, {"nombre": "Parcial", "porcentaje": "20%", "nota": 7.0}, {"nombre": "Parcial", "porcentaje": "20%", "nota": 5.9}, {"nombre": "Parcial", "porcentaje": "25%", "nota": 5.7}], "semestre": "Semestre 2 (Pre) 2022"}, {"nombre": "ALGEBRA II", "nota_final": null, "id_curso": "01003080", "componentes": [{"nombre": "Parcial", "porcentaje": "15%", "nota": null}, {"nombre": "Parcial", "porcentaje": "15%", "nota": null}, {"nombre": "Parcial", "porcentaje": "20%", "nota": null}, {"nombre": "Parcial", "porcentaje": "20%", "nota": null}, {"nombre": "Parcial", "porcentaje": "30%", "nota": null}], "semestre": "Semestre 2 (Pre) 2021"}, {"nombre": "ESTRUCTURAS DE DATOS", "nota_final": 5.7, "id_curso": "01003086", "componentes": [{"nombre": "Parcial", "porcentaje": "20%", "nota": 3.8}, {"nombre": "Parcial", "porcentaje": "40%", "nota": 6.5}, {"nombre": "Parcial", "porcentaje": "40%", "nota": 5.8}], "semestre": "Semestre 1 (Pre) 2022"}, {"nombre": "INGLES III", "nota_final": 6.2, "id_curso": "01005809", "componentes": [{"nombre": "Parcial", "porcentaje": "50%", "nota": 6.7}, {"nombre": "Parcial", "porcentaje": "50%", "nota": 5.6}], "semestre": "Semestre 1 (Pre) 2022"}, {"nombre": "EXPRESIÓN ORAL EN INGENIERIA", "nota_final": 6.6, "id_curso": "01003087", "componentes": [{"nombre": "Parcial", "porcentaje": "25%", "nota": 7.0}, {"nombre": "Parcial", "porcentaje": "25%", "nota": 7.0}, {"nombre": "Parcial", "porcentaje": "25%", "nota": 5.5}, {"nombre": "Parcial", "porcentaje": "25%", "nota": 6.8}], "semestre": "Semestre 1 (Pre) 2022"}, {"nombre": "FISICA I", "nota_final": 4.7, "id_curso": "01003084", "componentes": [{"nombre": "Parcial", "porcentaje": "15%", "nota": 6.2}, {"nombre": "Parcial", "porcentaje": "15%", "nota": 6.3}, {"nombre": "Parcial", "porcentaje": "20%", "nota": 1.3}, {"nombre": "Parcial", "porcentaje": "20%", "nota": 6.0}, {"nombre": "Parcial", "porcentaje": "30%", "nota": 4.6}], "semestre": "Semestre 1 (Pre) 2022"}, {"nombre": "CIRCUITOS DIGITALES", "nota_final": 6.2, "id_curso": "01003088", "componentes": [{"nombre": "Parcial", "porcentaje": "25%", "nota": 5.3}, {"nombre": "Parcial", "porcentaje": "25%", "nota": 7.0}, {"nombre": "Parcial", "porcentaje": "25%", "nota": 6.3}, {"nombre": "Parcial", "porcentaje": "25%", "nota": 6.2}], "semestre": "Semestre 1 (Pre) 2022"}, {"nombre": "INGLÉS II", "nota_final": 6.0, "id_curso": "01005759", "componentes": [{"nombre": "Parcial", "porcentaje": "50%", "nota": 6.0}, {"nombre": "Parcial", "porcentaje": "50%", "nota": 6.0}], "semestre": "Semestre 2 (Pre) 2021"}, {"nombre": "COMPRENSIÓN LECTORA Y PROD. DE TEXTOS", "nota_final": 5.1, "id_curso": "01003083", "componentes": [{"nombre": "Parcial", "porcentaje": "25%", "nota": 5.3}, {"nombre": "Parcial", "porcentaje": "25%", "nota": 5.5}, {"nombre": "Parcial", "porcentaje": "25%", "nota": 3.0}, {"nombre": "Parcial", "porcentaje": "25%", "nota": 6.5}], "semestre": "Semestre 2 (Pre) 2021"}, {"nombre": "CALCULO II", "nota_final": 6.0, "id_curso": "01003081", "componentes": [{"nombre": "Parcial", "porcentaje": "20%", "nota": 6.6}, {"nombre": "Parcial", "porcentaje": "20%", "nota": 5.5}, {"nombre": "Parcial", "porcentaje": "30%", "nota": 5.9}, {"nombre": "Parcial", "porcentaje": "30%", "nota": 6.0}], "semestre": "Semestre 2 (Pre) 2021"}, {"nombre": "PROGRAMACIÓN", "nota_final": 6.6, "id_curso": "01003082", "componentes": [{"nombre": "Parcial", "porcentaje": "20%", "nota": 7.0}, {"nombre": "Parcial", "porcentaje": "20%", "nota": 7.0}, {"nombre": "Parcial", "porcentaje": "20%", "nota": 5.8}, {"nombre": "Parcial", "porcentaje": "40%", "nota": 6.5}], "semestre": "Semestre 2 (Pre) 2021"}, {"nombre": "SISTEMAS DISTRIBUIDOS", "nota_final": null, "id_curso": "01003119", "componentes": [{"nombre": "Parcial", "porcentaje": "30%", "nota": null}, {"nombre": "Parcial", "porcentaje": "30%", "nota": null}, {"nombre": "Parcial", "porcentaje": "40%", "nota": null}], "semestre": "Semestre 1 (Pre) 2026"}, {"nombre": "FORM. Y EVAL. DE PROYECTOS INFORMÁTICOS", "nota_final": null, "id_curso": "01003115", "componentes": [{"nombre": "Parcial", "porcentaje": "25%", "nota": 3.6}, {"nombre": "Parcial", "porcentaje": "35%", "nota": 6.7}, {"nombre": "Parcial", "porcentaje": "40%", "nota": null}], "semestre": "Semestre 1 (Pre) 2026"}, {"nombre": "INGENIERÍA DE SOFTWARE II", "nota_final": 6.2, "id_curso": "01003118", "componentes": [{"nombre": "Parcial", "porcentaje": "20%", "nota": 6.5}, {"nombre": "Parcial", "porcentaje": "20%", "nota": 6.3}, {"nombre": "Parcial", "porcentaje": "30%", "nota": 6.0}, {"nombre": "Parcial", "porcentaje": "30%", "nota": 6.2}], "semestre": "Semestre 1 (Pre) 2026"}, {"nombre": "CALIDAD Y PRODUCTIVIDAD DE SOFTWARE", "nota_final": null, "id_curso": "01003117", "componentes": [{"nombre": "Parcial", "porcentaje": "20%", "nota": 5.0}, {"nombre": "Parcial", "porcentaje": "25%", "nota": null}, {"nombre": "Parcial", "porcentaje": "25%", "nota": null}, {"nombre": "Parcial", "porcentaje": "30%", "nota": null}], "semestre": "Semestre 1 (Pre) 2026"}, {"nombre": "GESTIÓN INFORMÁTICA I", "nota_final": null, "id_curso": "01003116", "componentes": [{"nombre": "Parcial", "porcentaje": "20%", "nota": 6.8}, {"nombre": "Parcial", "porcentaje": "20%", "nota": 5.2}, {"nombre": "Parcial", "porcentaje": "30%", "nota": null}, {"nombre": "Parcial", "porcentaje": "30%", "nota": null}], "semestre": "Semestre 1 (Pre) 2026"}, {"nombre": "IMPLEMENTACION DE LA R.S.E. Y NUEVOS DES", "nota_final": null, "id_curso": "01005358", "componentes": [{"nombre": "Parcial", "porcentaje": "30%", "nota": 7.0}, {"nombre": "Parcial", "porcentaje": "30%", "nota": 5.2}, {"nombre": "Parcial", "porcentaje": "40%", "nota": null}], "semestre": "Semestre 1 (Pre) 2026"}]};